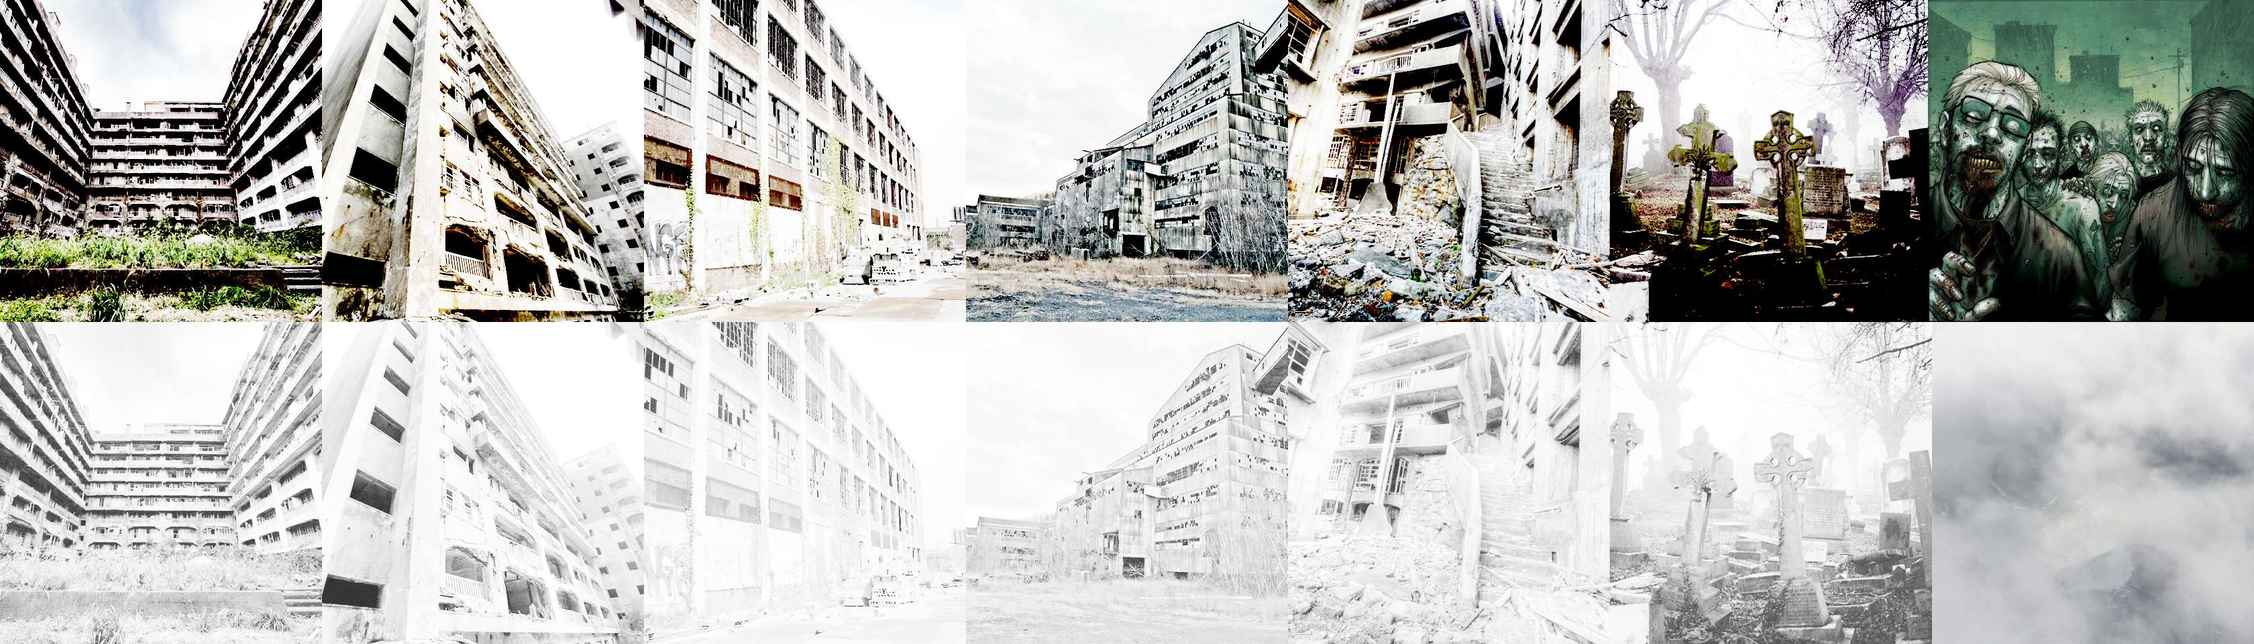
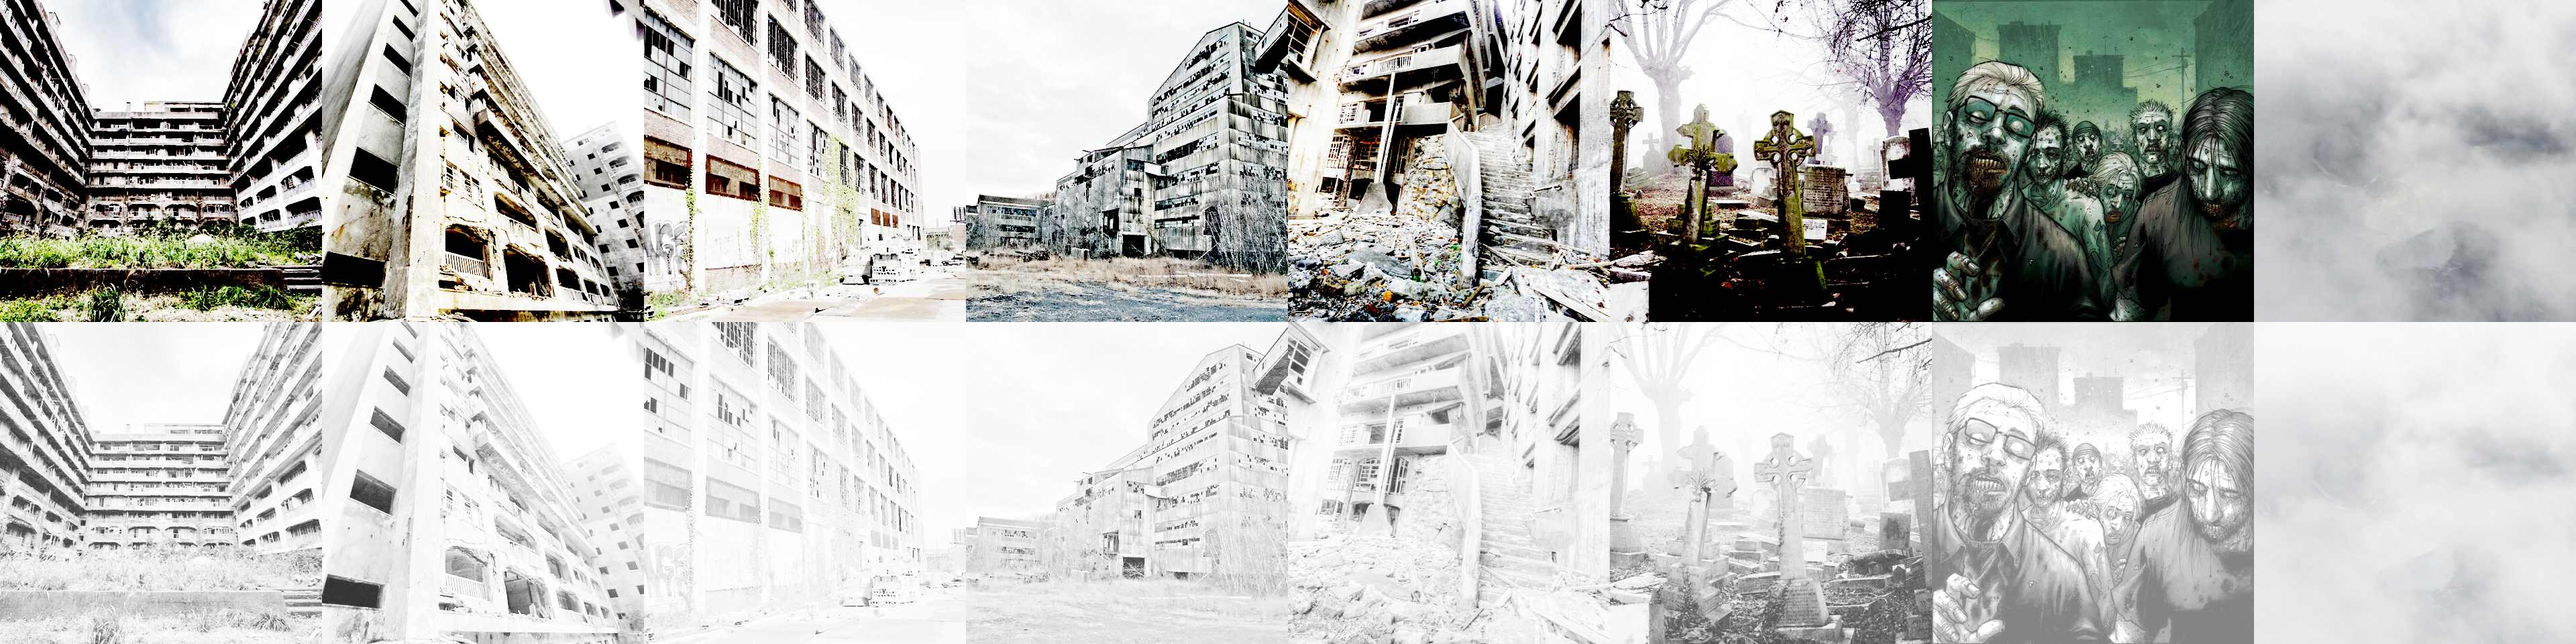
Gjør zombiene tåkete også

diff --git a/resources/public/base.css b/resources/public/base.css
@@ -60,14 +60,14 @@ body.game-over {background: #b5afa7;}
 
 .tile.match {-webkit-transform: rotateY(180deg) scale(0.9, 0.9); opacity: 0.5;}
 
-.back {background: url(zombie-tiles.jpg); background-size: 1400px;}
+.back {background: url(zombie-tiles.jpg); background-size: 1600px;}
 .back.h2 {background-position: -200px 0;}
 .back.h3 {background-position: -400px 0;}
 .back.h4 {background-position: -600px 0;}
 .back.h5 {background-position: -800px 0;}
 .back.gy {background-position: -1000px 0;}
 .back.zo {background-position: -1200px 0;}
-.back.fg {background-position: -1200px -200px;}
+.back.fg {background-position: -1400px 0;}
 
 .foggy .back.h1 {background-position: 0 -200px;}
 .foggy .back.h2 {background-position: -200px -200px;}
@@ -75,6 +75,8 @@ body.game-over {background: #b5afa7;}
 .foggy .back.h4 {background-position: -600px -200px;}
 .foggy .back.h5 {background-position: -800px -200px;}
 .foggy .back.gy {background-position: -1000px -200px;}
+.foggy .back.zo {background-position: -1200px -200px;}
+.foggy .back.fg {background-position: -1400px -200px;}
 
 clearfix:after {content: "."; display: block; clear: both; visibility: hidden; line-height: 0; height: 0;}
 .clearfix {display: inline-block;}
